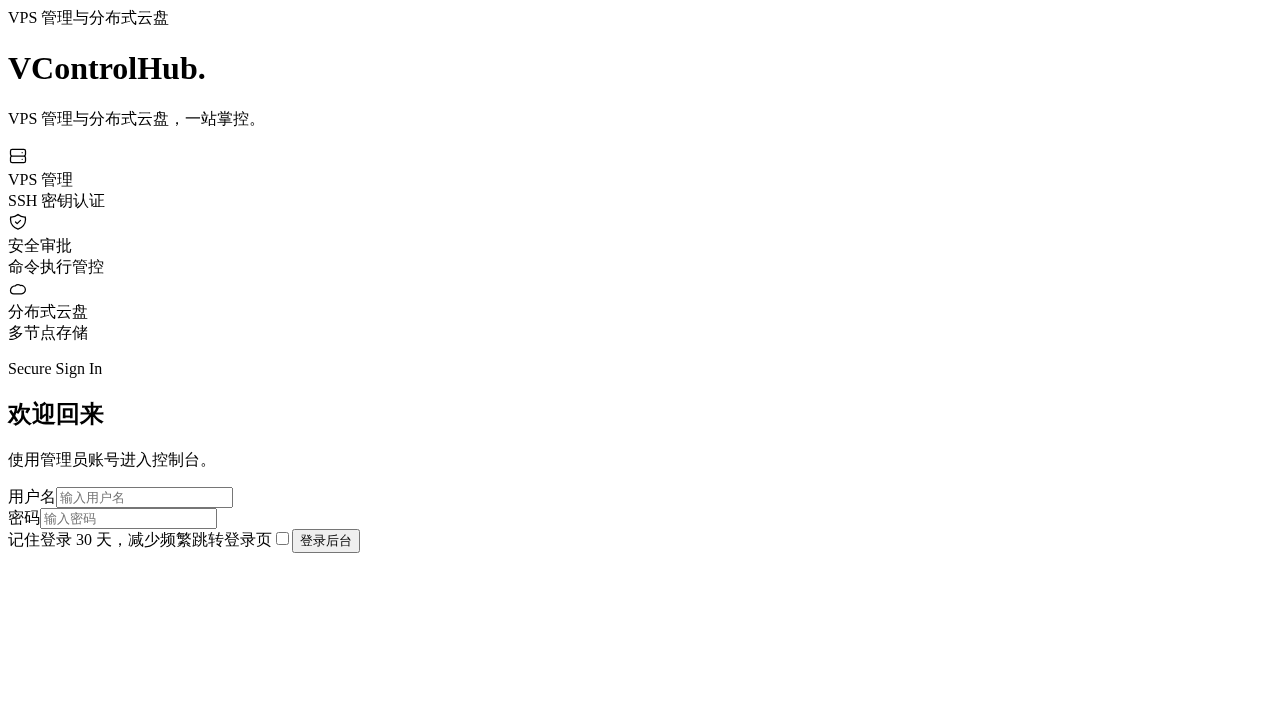
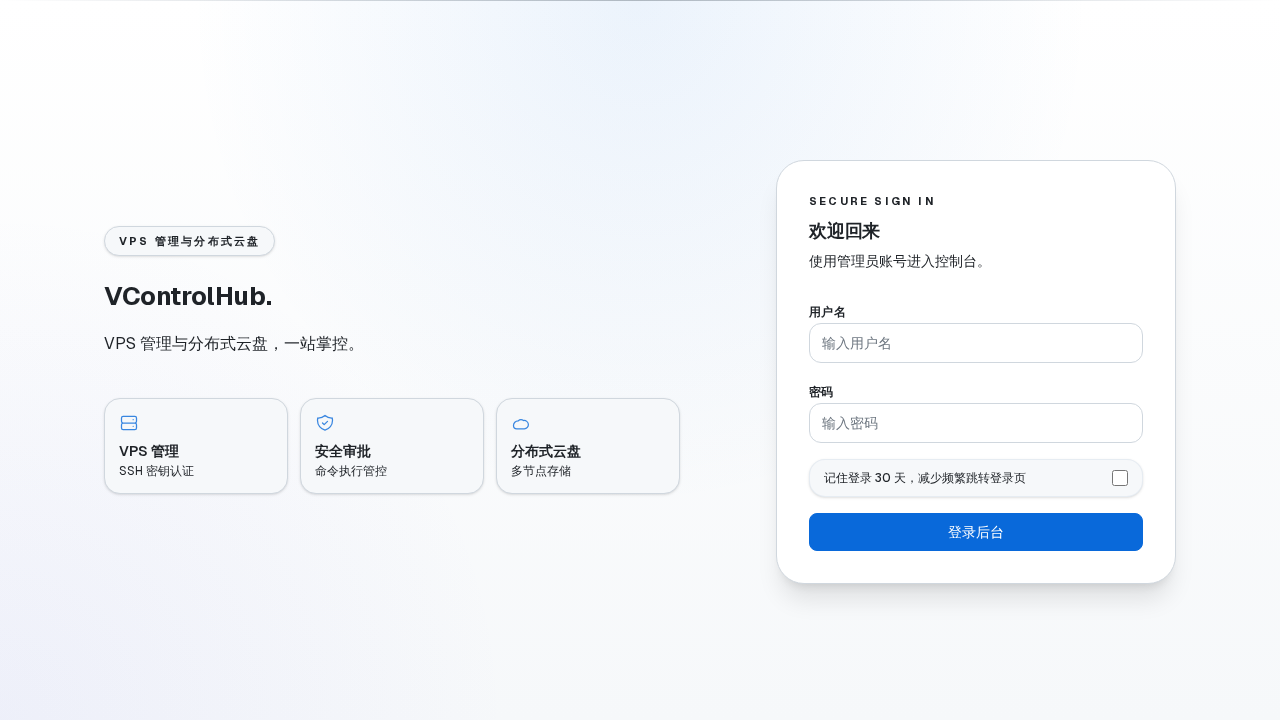
style: fix auth page i18n copies and remember-me checkbox alignment
- Reworded login translations (e.g., '记住登录' to '保持登录状态 (30天)', '二步验证' to '双重认证 (2FA)') for a more professional and authoritative enterprise feel
- Fixed checkbox alignment in the login form to match standard SaaS layout (checkbox on the left, label on the right) and increased label contrast

diff --git a/fix-i18n.js b/fix-i18n.js
@@ -1,0 +1,19 @@
+const fs = require('fs');
+
+let loginDict = fs.readFileSync('/opt/VControlHub/src/lib/i18n/dictionaries/login.ts', 'utf-8');
+// Fix Chinese translations to be more formal and enterprise-like
+loginDict = loginDict.replace('"login.form.remember": "记住登录 30 天，减少频繁跳转登录页"', '"login.form.remember": "保持登录状态 (30天)"');
+loginDict = loginDict.replace('"login.form.submit": "登录后台"', '"login.form.submit": "登录"');
+loginDict = loginDict.replace('"login.branding.tagline": "，一站掌控。"', '"login.branding.tagline": "，一站式资源管理"');
+loginDict = loginDict.replace('"login.verify2faDescription": "请输入您身份验证器应用中显示的验证码"', '"login.verify2faDescription": "请输入身份验证器应用 (Authenticator) 中生成的 6 位动态验证码"');
+
+fs.writeFileSync('/opt/VControlHub/src/lib/i18n/dictionaries/login.ts', loginDict);
+
+let authDict = fs.readFileSync('/opt/VControlHub/src/lib/i18n/dictionaries/auth.ts', 'utf-8');
+// Fix some possible auth copy 
+if (authDict.includes('"auth.two-factor"')) {
+    authDict = authDict.replace('"auth.two-factor": "二步验证"', '"auth.two-factor": "双重认证 (2FA)"');
+}
+fs.writeFileSync('/opt/VControlHub/src/lib/i18n/dictionaries/auth.ts', authDict);
+
+console.log('Fixed i18n copy');

diff --git a/fix-ui-layout.js b/fix-ui-layout.js
@@ -1,0 +1,19 @@
+const fs = require('fs');
+
+// Fine-tune login form remember checkbox layout
+let loginForm = fs.readFileSync('/opt/VControlHub/src/app/login/login-form.tsx', 'utf-8');
+// Increase contrast and alignment of the checkbox
+loginForm = loginForm.replace(
+  'className="flex items-center justify-between gap-3 rounded-2xl border border-[var(--border)] bg-[var(--surface)]/[0.025] px-3.5 py-2.5 text-xs font-medium text-[var(--text-primary)] shadow-[0_0_0_1px_rgba(255,255,255,0.03)] light:border-slate-200/80 light:shadow-sm"',
+  'className="flex items-center gap-3 rounded-2xl border border-[var(--border)] bg-[var(--surface)]/[0.04] px-4 py-3 text-xs font-medium text-[var(--text-primary)] shadow-sm"'
+);
+loginForm = loginForm.replace(
+  'className="h-4 w-4 rounded-lg border-[var(--border)] bg-[var(--surface)]/[0.10] text-[var(--color-action)] focus:ring-[var(--color-action-ring)]/40 light:focus:ring-[var(--color-action-ring)]/30"',
+  'className="h-4 w-4 shrink-0 rounded border-[var(--border-strong)] bg-[var(--surface-subtle)] text-[var(--accent)] focus:ring-2 focus:ring-[var(--accent-ring)] disabled:opacity-50"'
+);
+
+// We need to move the text to the right of the checkbox for a standard layout
+loginForm = loginForm.replace(/<span>\{t\("login\.form\.remember", locale\)\}<\/span>\s*<input([\s\S]*?)>/m, '<input$1>\n\t\t\t\t<span>{t("login.form.remember", locale)}</span>');
+fs.writeFileSync('/opt/VControlHub/src/app/login/login-form.tsx', loginForm);
+
+console.log('Fixed checkbox layout');

diff --git a/src/lib/i18n/dictionaries/login.ts b/src/lib/i18n/dictionaries/login.ts
@@ -8,7 +8,7 @@
 export const zh: Record<string, string> = {
 	"login.branding.signInTag": "Secure Sign In",
 	"login.branding.subtitle": "使用管理员账号进入控制台。",
-	"login.branding.tagline": "，一站掌控。",
+	"login.branding.tagline": "，一站式资源管理",
 	"login.branding.welcome": "欢迎回来",
 	"login.error.invalid": "用户名或密码错误",
 	"login.error.locked": "账户已锁定，请 {min} 后再试",
@@ -23,11 +23,11 @@ export const zh: Record<string, string> = {
 	"login.feature.vps.title": "VPS 管理",
 	"login.form.password": "密码",
 	"login.form.passwordPlaceholder": "输入密码",
-	"login.form.remember": "记住登录 30 天，减少频繁跳转登录页",
-	"login.form.submit": "登录后台",
+	"login.form.remember": "保持登录状态 (30天)",
+	"login.form.submit": "登录",
 	"login.form.username": "用户名",
 	"login.form.usernamePlaceholder": "输入用户名",
-	"login.verify2faDescription": "请输入您身份验证器应用中显示的验证码",
+	"login.verify2faDescription": "请输入身份验证器应用 (Authenticator) 中生成的 6 位动态验证码",
 	"login.verify2faBackToLogin": "← 返回登录",
 };
 

diff --git a/src/app/login/login-form.tsx b/src/app/login/login-form.tsx
@@ -38,13 +38,13 @@ export function LoginForm({ nextPath, error, locale }: LoginFormProps) {
 					 />
 			</div>
 
-			<label className="flex items-center justify-between gap-3 rounded-2xl border border-[var(--border)] bg-[var(--surface)]/[0.025] px-3.5 py-2.5 text-xs font-medium text-[var(--text-primary)] shadow-[0_0_0_1px_rgba(255,255,255,0.03)] light:border-slate-200/80 light:shadow-sm">
-				<span>{t("login.form.remember", locale)}</span>
+			<label className="flex items-center gap-3 rounded-2xl border border-[var(--border)] bg-[var(--surface)]/[0.04] px-4 py-3 text-xs font-medium text-[var(--text-primary)] shadow-sm">
 				<input
 					type="checkbox"
 					name="remember"
-					className="h-4 w-4 rounded-lg border-[var(--border)] bg-[var(--surface)]/[0.10] text-[var(--color-action)] focus:ring-[var(--color-action-ring)]/40 light:focus:ring-[var(--color-action-ring)]/30"
+					className="h-4 w-4 shrink-0 rounded border-[var(--border-strong)] bg-[var(--surface-subtle)] text-[var(--accent)] focus:ring-2 focus:ring-[var(--accent-ring)] disabled:opacity-50"
 				/>
+				<span>{t("login.form.remember", locale)}</span>
 			</label>
 
 			{error ? (